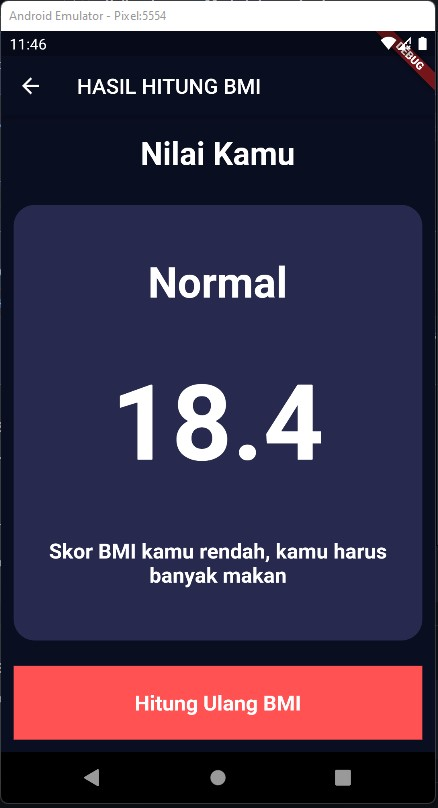
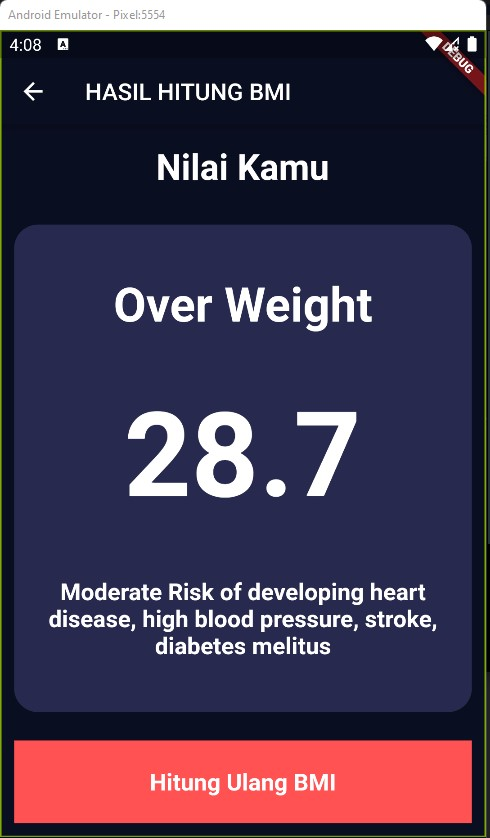
update bmi

diff --git a/lib/view/bmi_data_screen.dart b/lib/view/bmi_data_screen.dart
@@ -2,6 +2,7 @@ import 'dart:math';
 
 import 'package:flutter/material.dart';
 import 'package:pelatihan_flutter/constants/constants.dart';
+import 'package:pelatihan_flutter/helper/bmi_calculator.dart';
 import 'package:pelatihan_flutter/view/bmi_result_screen.dart';
 
 // ignore: camel_case_types
@@ -17,13 +18,7 @@ class _bmi_data_screenState extends State<bmi_data_screen> {
   int height = 165;
   int weight = 50;
   int age = 20;
-
-  double calculateBMI() {
-    double heightinMeter = height / 100;
-    final pangkat = pow(heightinMeter, 2);
-    double hasil = weight / pangkat;
-    return hasil;
-  }
+  String? gender;
 
   @override
   Widget build(BuildContext context) {
@@ -38,22 +33,38 @@ class _bmi_data_screenState extends State<bmi_data_screen> {
               color: const Color(0xff111318),
               padding: const EdgeInsets.all(12.0),
               child: Row(
-                children: const [
+                children: [
                   Expanded(
-                    child: bmi_card(
-                      child: gender_icon_text(
-                        icon_data: Icons.male,
-                        title: 'MALE',
+                    child: GestureDetector(
+                      onTap: (() {
+                        gender = "male";
+                        setState(() {});
+                      }),
+                      child: bmi_card(
+                        borderColor:
+                            (gender == "male") ? Colors.white : primaryColor,
+                        child: const gender_icon_text(
+                          icon_data: Icons.male,
+                          title: 'MALE',
+                        ),
                       ),
                     ),
                   ),
-                  Padding(
+                  const Padding(
                     padding: EdgeInsets.only(left: 12.0),
                   ),
                   Expanded(
-                    child: bmi_card(
-                      child: gender_icon_text(
-                          title: "FEMALE", icon_data: Icons.female),
+                    child: GestureDetector(
+                      onTap: () {
+                        gender = "female";
+                        setState(() {});
+                      },
+                      child: bmi_card(
+                        borderColor:
+                            (gender == "female") ? Colors.white : primaryColor,
+                        child: const gender_icon_text(
+                            title: "FEMALE", icon_data: Icons.female),
+                      ),
                     ),
                   )
                 ],
@@ -202,13 +213,13 @@ class _bmi_data_screenState extends State<bmi_data_screen> {
           ),
           GestureDetector(
             onTap: () {
-              // print(calculateBMI());
+              final bmiCalculatorHasil =
+                  bmiCalculator(height: height, weight: weight);
+
               Navigator.of(context).push(
                 MaterialPageRoute(
                   builder: ((context) {
-                    return bmi_result(
-                      bmi: calculateBMI(),
-                    );
+                    return bmi_result(bmi: bmiCalculatorHasil.calculateBMI());
                   }),
                 ),
               );
@@ -252,10 +263,11 @@ class button_action extends StatelessWidget {
     return RawMaterialButton(
       onPressed: onpress,
       elevation: 0,
+      // ignore: sort_child_properties_last
       child: Icon(icon),
-      shape: CircleBorder(),
+      shape: const CircleBorder(),
       fillColor: Colors.white,
-      constraints: BoxConstraints.tightFor(
+      constraints: const BoxConstraints.tightFor(
         width: 35,
         height: 56,
       ),
@@ -263,13 +275,16 @@ class button_action extends StatelessWidget {
   }
 }
 
+// ignore: camel_case_types
 class bmi_card extends StatelessWidget {
   const bmi_card({
     this.child,
     Key? key,
+    this.borderColor = primaryColor,
   }) : super(key: key);
 
   final Widget? child;
+  final Color? borderColor;
 
   @override
   Widget build(BuildContext context) {
@@ -279,6 +294,7 @@ class bmi_card extends StatelessWidget {
         borderRadius: BorderRadius.circular(
           20.0,
         ),
+        border: Border.all(color: borderColor!),
       ),
       child: child,
     );

diff --git a/lib/view/bmi_result_screen.dart b/lib/view/bmi_result_screen.dart
@@ -1,15 +1,24 @@
 import 'package:flutter/material.dart';
+import 'package:pelatihan_flutter/constants/constants.dart';
+import 'package:pelatihan_flutter/helper/bmi_calculator.dart';
 import 'package:pelatihan_flutter/view/bmi_data_screen.dart';
 
 // ignore: camel_case_types
 class bmi_result extends StatelessWidget {
-  const bmi_result({Key? key, required this.bmi}) : super(key: key);
+  const bmi_result({
+    Key? key,
+    required this.bmi,
+  }) : super(key: key);
 
   final double bmi;
-  
+  // final bmiCalculator? bmiCalculatorHasil;
 
   @override
   Widget build(BuildContext context) {
+    final bmiCalculator bmiHasilCalculator = bmiCalculator.fromBmiValue(bmi);
+    bmiHasilCalculator.determinanBMI();
+    bmiHasilCalculator.getHealtRisk();
+
     return Scaffold(
       appBar: AppBar(
         title: const Text("HASIL HITUNG BMI"),
@@ -29,33 +38,37 @@ class bmi_result extends StatelessWidget {
             ),
           ),
           Expanded(
+            flex: 6,
             child: Container(
-              padding: EdgeInsets.all(12.0),
+              padding: const EdgeInsets.all(12.0),
               width: double.infinity,
               child: bmi_card(
                 child: Column(
                     mainAxisAlignment: MainAxisAlignment.spaceEvenly,
                     children: [
                       Text(
-                        "Normal",
-                        style: TextStyle(
+                        (bmiHasilCalculator.categoryBMI == null)
+                            ? ""
+                            : bmiHasilCalculator.categoryBMI!,
+                        textAlign: TextAlign.center,
+                        style: const TextStyle(
                           fontSize: 40,
                           fontWeight: FontWeight.bold,
                           color: Colors.white,
                         ),
                       ),
                       Text(
-                        "${bmi.toStringAsFixed(1)}",
-                        style: TextStyle(
+                        bmi.toStringAsFixed(1),
+                        style: const TextStyle(
                           fontSize: 100,
                           fontWeight: FontWeight.bold,
                           color: Colors.white,
                         ),
                       ),
                       Text(
-                        "Skor BMI kamu rendah, kamu harus banyak makan",
+                        bmiHasilCalculator.categoryDesc!,
                         textAlign: TextAlign.center,
-                        style: TextStyle(
+                        style: const TextStyle(
                           fontSize: 20,
                           fontWeight: FontWeight.bold,
                           color: Colors.white,
@@ -64,7 +77,6 @@ class bmi_result extends StatelessWidget {
                     ]),
               ),
             ),
-            flex: 6,
           ),
           GestureDetector(
             onTap: () {

diff --git a/lib/helper/bmi_calculator.dart b/lib/helper/bmi_calculator.dart
@@ -1,0 +1,69 @@
+import '../constants/constants.dart';
+
+class bmiCalculator {
+  int? height;
+  int? weight;
+  double? bmi;
+  String? categoryBMI;
+  String? categoryDesc;
+
+  bmiCalculator({required this.height, required this.weight});
+  bmiCalculator.fromBmiValue(this.bmi);
+
+  double calculateBMI() {
+    double heightinMeter = height! / 100;
+    final pangkat = heightinMeter * heightinMeter;
+    double hasil = weight! / pangkat;
+    return hasil;
+  }
+
+  determinanBMI() {
+    String category = "";
+
+    if (bmi! < 16) {
+      category = underweightSevere;
+    } else if (bmi! < 17) {
+      category = underweightModerate;
+    } else if (bmi! < 25) {
+      category = normal;
+    } else if (bmi! < 30) {
+      category = overWeight;
+    } else if (bmi! < 35) {
+      category = obese1;
+    } else if (bmi! < 40) {
+      category = obese2;
+    } else if (bmi! >= 40) {
+      category = obese3;
+    }
+    categoryBMI = category;
+
+    return categoryBMI;
+  }
+
+  getHealtRisk() {
+    String desc = "";
+    switch (categoryBMI) {
+      case underweightSevere:
+      case underweightMild:
+      case underweightModerate:
+        desc = "Posible Nutritional deficiency and osteoporosis";
+        break;
+      case normal:
+        desc = "Low Risk (Health Range)";
+        break;
+      case overWeight:
+        desc =
+            "Moderate Risk of developing heart disease, high blood pressure, stroke, diabetes melitus";
+        break;
+      case obese1:
+      case obese2:
+      case obese3:
+        desc =
+            "High Risk of developing heart disease, high blood pressure, stroke, diabetes melitus";
+        break;
+      default:
+    }
+    categoryDesc = desc;
+    return categoryDesc;
+  }
+}

diff --git a/lib/constants/constants.dart b/lib/constants/constants.dart
@@ -1,15 +1,15 @@
 import 'package:flutter/material.dart';
 
-Color? primaryColor = const Color(0xff0a0e21);
+const Color primaryColor = Color(0xff0a0e21);
 TextStyle? labelStyle = const TextStyle(
     fontSize: 18, color: Colors.white, fontWeight: FontWeight.bold);
 TextStyle? numberStyle = const TextStyle(
     fontSize: 50, fontWeight: FontWeight.bold, color: Colors.white);
-String underweightSevere = "Underweight (Severe Thinness)";
-String underweightModerate = "Underweight (Severe Moderate)";
-String underweightMild = "Underweight (Mild Thinnes)";
-String normal = "Normal";
-String overWeight = "Over Weight";
-String obese1 = "Obese (Class 1)";
-String obese2 = "Obese (Class 2)";
-String obese3 = "Obese (Class 3)";
+const String underweightSevere = "Underweight (Severe Thinness)";
+const String underweightModerate = "Underweight (Severe Moderate)";
+const String underweightMild = "Underweight (Mild Thinnes)";
+const String normal = "Normal";
+const String overWeight = "Over Weight";
+const String obese1 = "Obese (Class 1)";
+const String obese2 = "Obese (Class 2)";
+const String obese3 = "Obese (Class 3)";

diff --git a/lib/main.dart b/lib/main.dart
@@ -17,7 +17,7 @@ class MyApp extends StatelessWidget {
       theme: ThemeData(
         scaffoldBackgroundColor: primaryColor,
         primaryColor: primaryColor,
-        appBarTheme: AppBarTheme(backgroundColor: primaryColor),
+        appBarTheme: const AppBarTheme(backgroundColor: primaryColor),
         // This is the theme of your application.
         //
         // Try running your application with "flutter run". You'll see the
